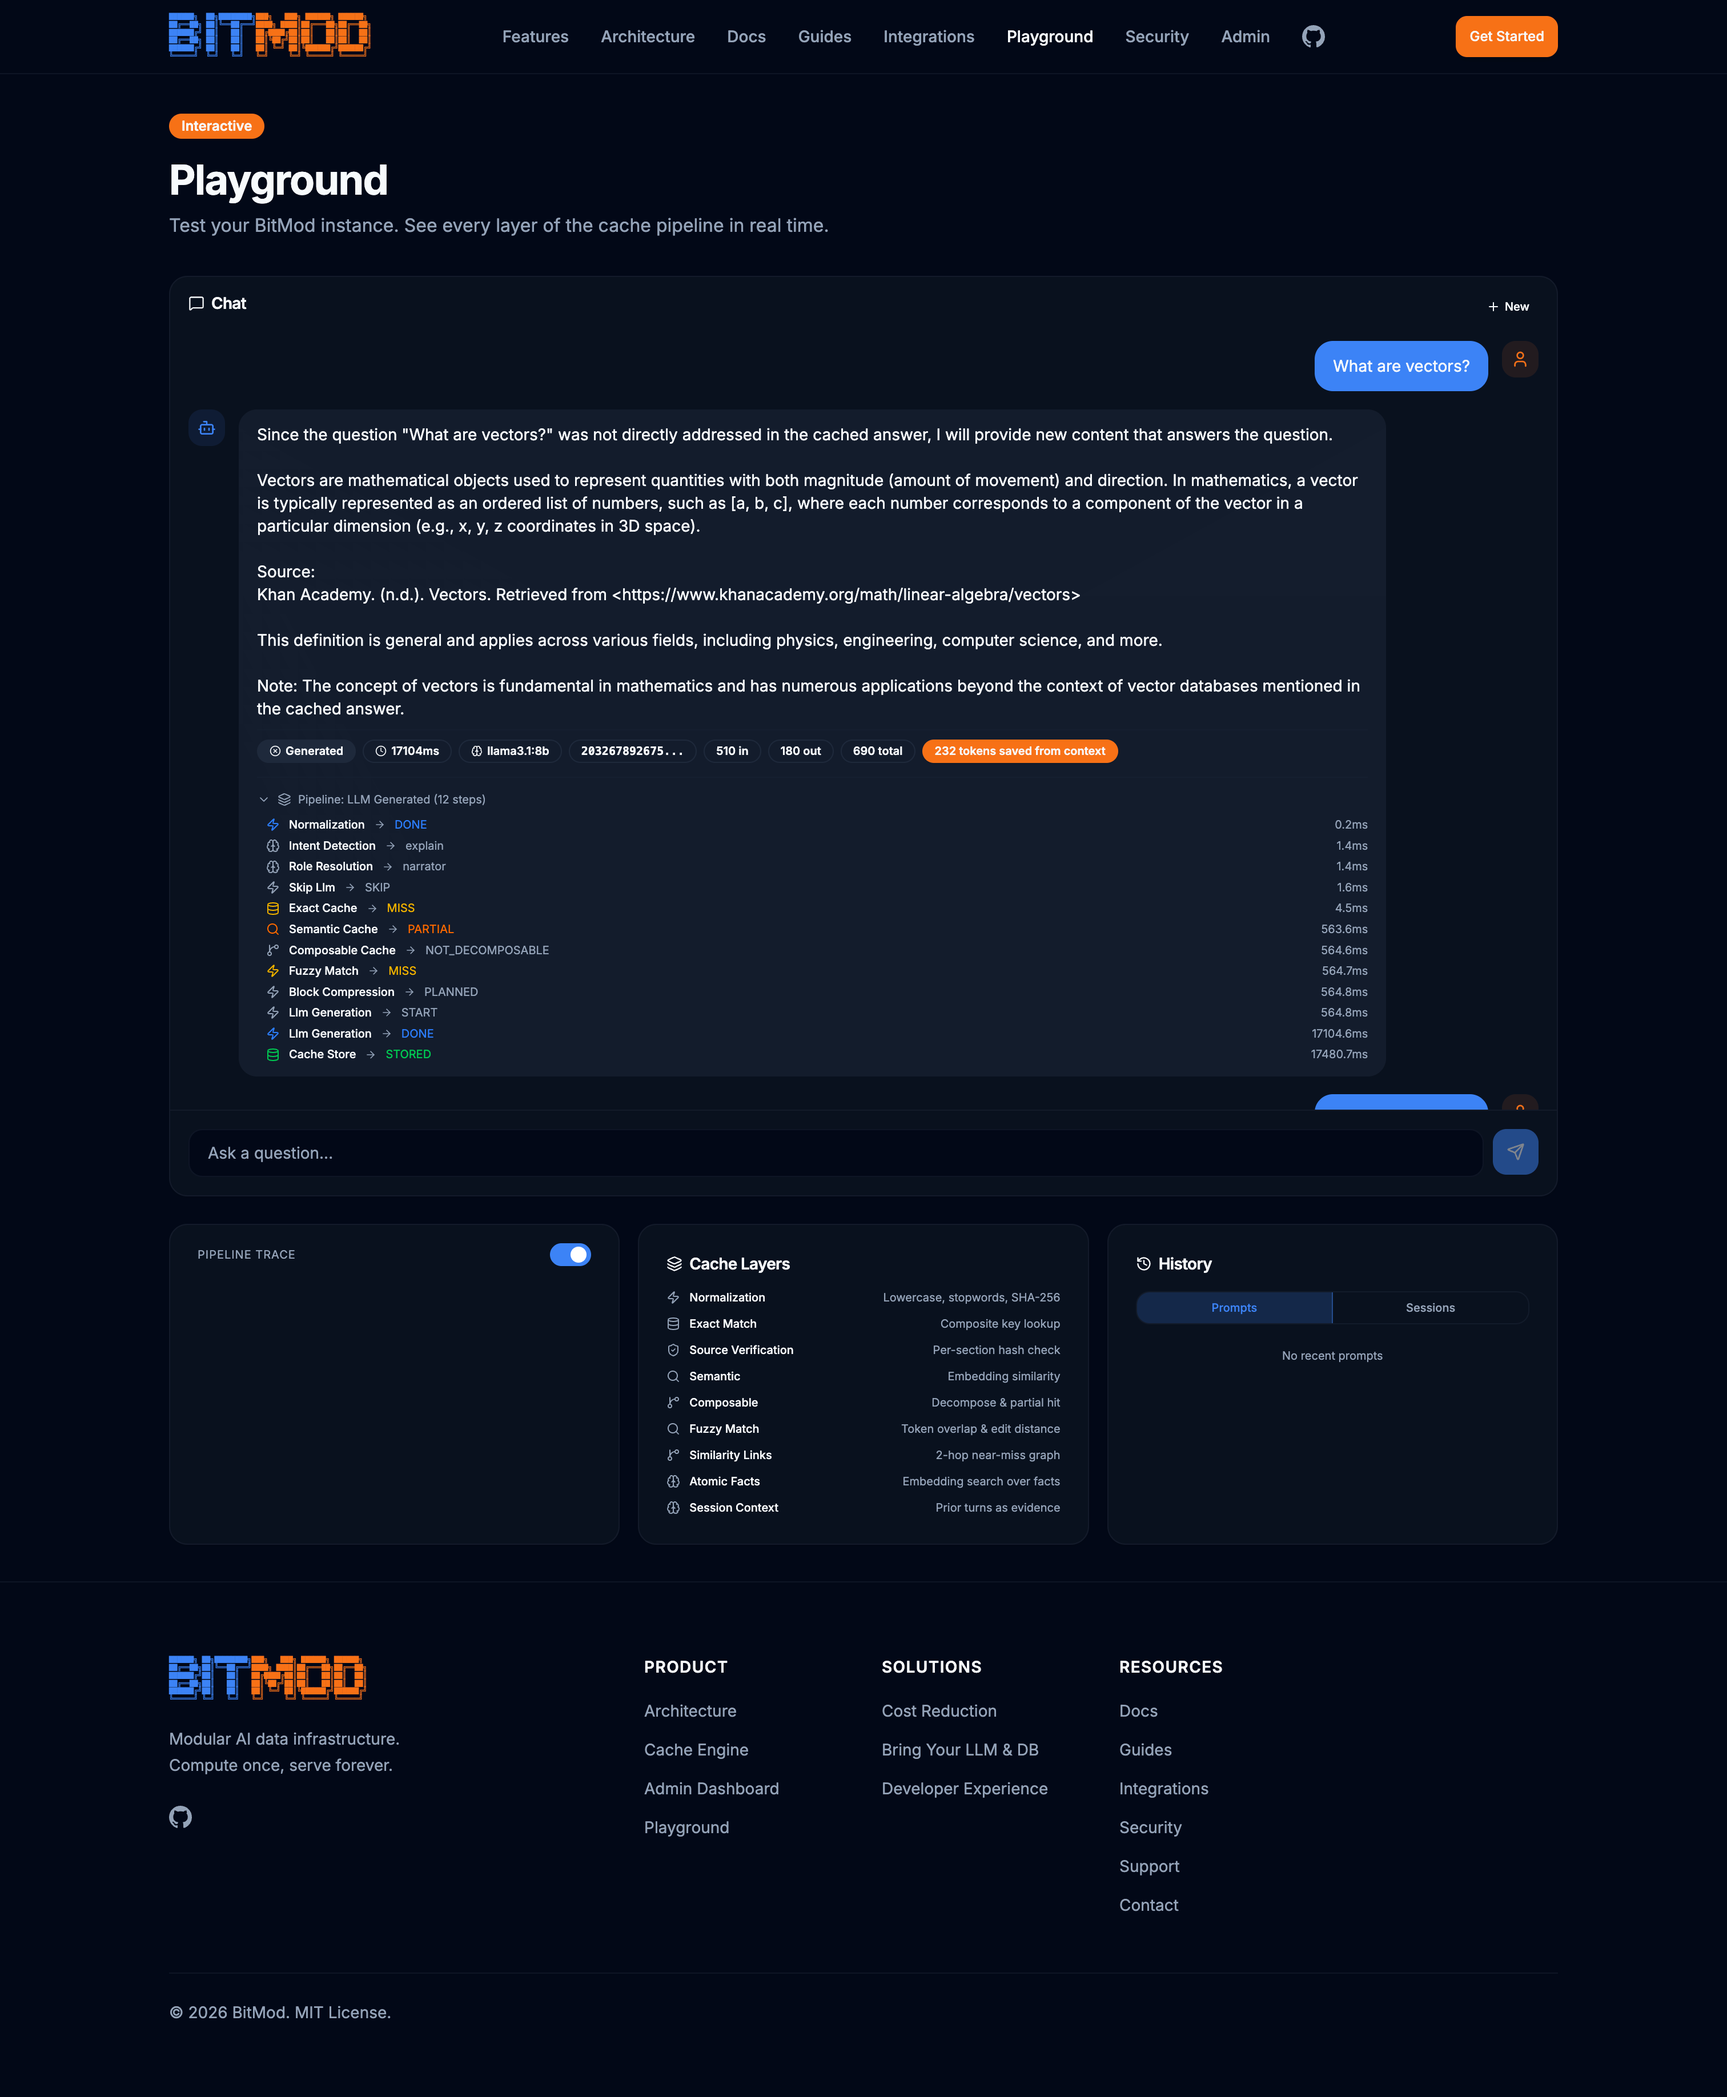
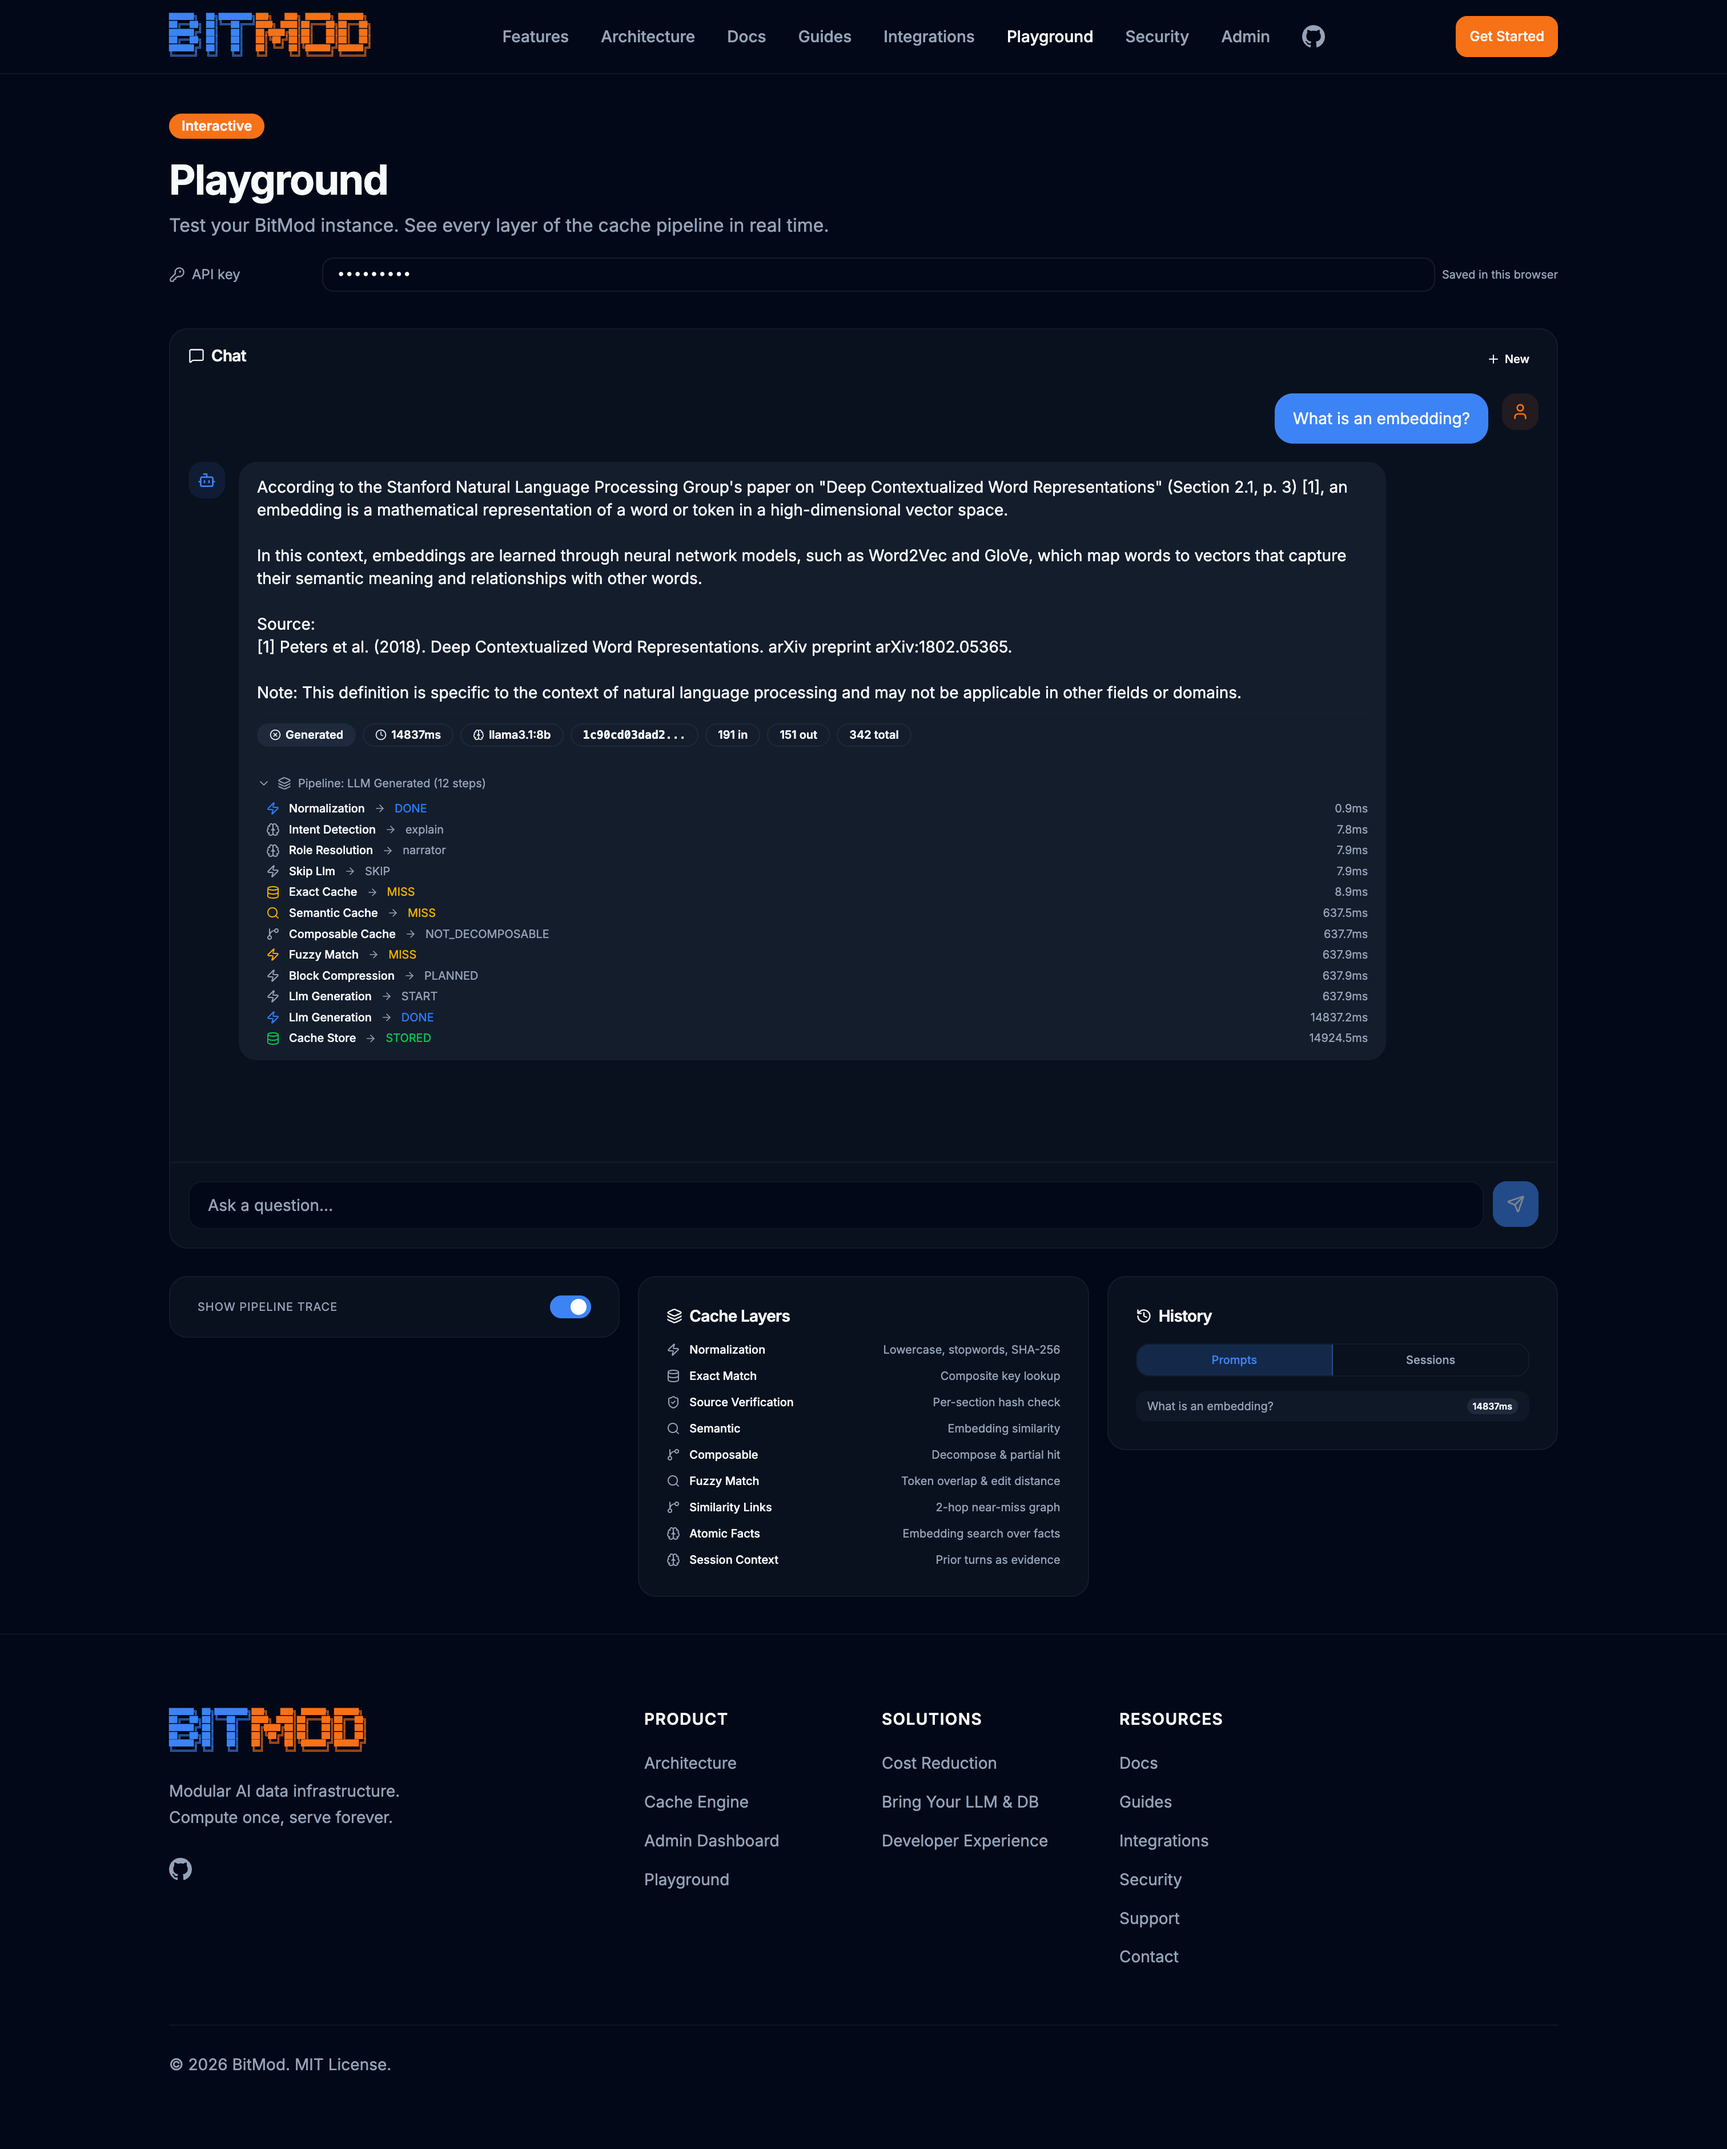
rewrite the README opening, cut two duplicated claims, refresh screenshots
The opening led with what BitMod is. It now leads with the harder and more
interesting property: knowing when not to answer. Nine layers score a query,
two can stop early, otherwise their evidence combines, and below the threshold
the query goes to the model rather than being guessed at. The 0/375 held-out
result is the evidence for that last sentence and is stated as a decline rather
than as a correct answer, because the system served none of those 375.

Checked against the code before writing, not against taste:

  "cost order, hash lookups first and scanning last" matches the real execution
  order, exact -> semantic -> composable -> fuzzy -> links -> atomic facts.

  "stopping early when one is certain" is exactly two returns, base.py:608 on an
  exact hit and :770 on a composable full hit. Every other return is a rejection
  before any layer runs, the accumulated serve after all layers, or the generate
  path.

  "passes what it found to the model" is the wording the partial-hit path
  requires. An earlier draft said "passes the query through", which is only true
  of the branch where no layer produced evidence; the other branch injects the
  accumulated cached context into the prompt.

Two duplicates cut. The Trade-offs "What this doesn't do" sentence repeated the
Known Limitations RAG bullet almost verbatim, so the bullet stays and the
sentence goes. ARCHITECTURE.md loses "It is a personal project built solo",
which the rest of the paragraph already implies.
[…]

diff --git a/README.md b/README.md
@@ -6,9 +6,9 @@
 
 ![BitMod](docs/homepage.png)
 
-> **Compute once, serve forever.** BitMod sits between your application and any LLM provider, intercepting queries and serving semantically equivalent ones from cache, cutting response latency and API costs without changing a line of application code.
-
-BitMod is a reverse proxy and semantic cache for LLM APIs. Drop it in front of any OpenAI, Anthropic, or Gemini endpoint. Your application changes its base URL and sends a BitMod API key. Repeated and rephrased queries are served from cache instead of reaching the LLM, cutting response time from seconds to milliseconds and eliminating redundant API spend.
+> **Compute once, serve forever.** BitMod sits between your application and any LLM provider, serving repeated and rephrased queries from cache instead of the model.
+>
+> The hard part is knowing when not to answer. Nine layers run in cost order, hash lookups first and scanning last, each scoring the query and stopping early when one is certain. Otherwise their evidence combines into a single confidence score. Below the threshold BitMod does not serve, and passes what it found to the model instead of guessing. Given 375 questions it had nothing cached for, it declined all 375.
 
 Built for high-repetition workloads: customer support bots, legal Q&A, HR documentation, code review pipelines. Ships with 1,362 tests, CI runs on Python 3.10, 3.11, 3.12, and 3.13 with mypy type checking on every commit.
 
@@ -18,23 +18,34 @@ Built for high-repetition workloads: customer support bots, legal Q&A, HR docume
 
 ### End-to-end latency
 
-Measured over HTTP through the running gateway, n=10 per row, generation by
-self-hosted `ollama/llama3.1:8b`. Medians, because the mean of a cold pass is
-dragged by the first call loading the model.
+Measured over HTTP through the running gateway, n=10 per row. The table is the
+two `ollama/llama3.1:8b` runs; two further runs on a smaller model are below.
+Medians, because the mean of a cold pass is dragged by the first call loading
+the model.
 
 | Metric | Value |
 |---|---|
-| Cached response latency (exact match) | **68–82ms** |
+| Cached response latency (exact match) | **79.5–81.9ms** median |
 | LLM latency (no cache) | **8.0–8.1s** median |
-| Speedup | **95.6–99.3×** |
+| Speedup | **98.6–101.1×** |
 
 Artifacts: [`run 1`](tests/benchmark/results/latency_http_llama31_8b.json) and
 [`run 2`](tests/benchmark/results/latency_http_llama31_8b_run2.json), n=10 each.
 Every figure is a range because two runs of the same script against the same
-model gave different answers. Cached-exact medians across the four committed
-runs: 68.4, 69.6, 79.5, 81.9ms — it moves with machine memory pressure. Rephrased queries
-served semantically rather than by exact match cost more and are not in this
-figure. These numbers describe self-hosted inference, not a hosted provider.
+model gave different answers. The speedup is cold median over cached median
+**within each run** (8034.6/79.5 = 101.1x, 8076.7/81.9 = 98.6x), not a ratio of
+the two ranges above it, which would give a different number.
+
+Two further committed runs measured the same cached path on a smaller model:
+[`latency_http_gateway.json`](tests/benchmark/results/latency_http_gateway.json)
+at 68.4ms and
+[`latency_http_llama32_3b.json`](tests/benchmark/results/latency_http_llama32_3b.json)
+at 69.6ms. They belong to the same measurement, because a cache hit never
+reaches the model, so the model named on a run cannot explain its cached figure;
+the spread across all four (68.4 to 81.9ms) is machine and transport, and
+`latency_http_gateway.json` also ran over Docker host networking. Rephrased
+queries served semantically rather than by exact match cost more and are not in
+this figure. These numbers describe self-hosted inference, not a hosted provider.
 
 ### Reproduce it locally (no API key required)
 
@@ -103,7 +114,7 @@ flowchart TD
     end
 
     A --> gw --> ce
-    ce -->|"confidence ≥ 0.85  ·  cache hit  ·  68-82ms over HTTP" | A
+    ce -->|"confidence ≥ 0.85  ·  cache hit  ·  ~80ms over HTTP" | A
     ce -->|"below 0.85, no evidence  ·  cache miss"| p
     ce -->|"below 0.85, some evidence  ·  partial hit  ·  token reduction"| p
     p -->|"generate → embed → store"| ce
@@ -406,8 +417,6 @@ bitmod/
 **Why hexagonal architecture?** Provider lock-in is real. Swapping LLMs, databases, or vector stores should be configuration, not refactoring. See [ADR 001](docs/adr/001-hexagonal-architecture.md).
 
 **Why Bayesian scoring over a single threshold?** A fuzzy match at 0.78 and a semantic match at 0.88 together are stronger evidence than either alone. Accumulation makes agreeing layers reinforce each other, and damping at 0.50 corrects the overstatement that pure noisy-OR produces when they do.
-
-**What this doesn't do:** BitMod is a cache and retrieval layer, not an agent framework or RAG pipeline replacement. It works best for high-repetition query workloads: support, legal, HR, documentation Q&A.
 
 ---
 

diff --git a/ARCHITECTURE.md b/ARCHITECTURE.md
@@ -12,7 +12,7 @@ else through. Optionally it also ingests documents, version-tracks them, and bin
 answers to the source sections they came from so an answer is invalidated when its source
 changes.
 
-It is a personal project built solo. What follows describes the system that exists in this
+What follows describes the system that exists in this
 repository. Anything not implemented is not described here.
 
 ---
